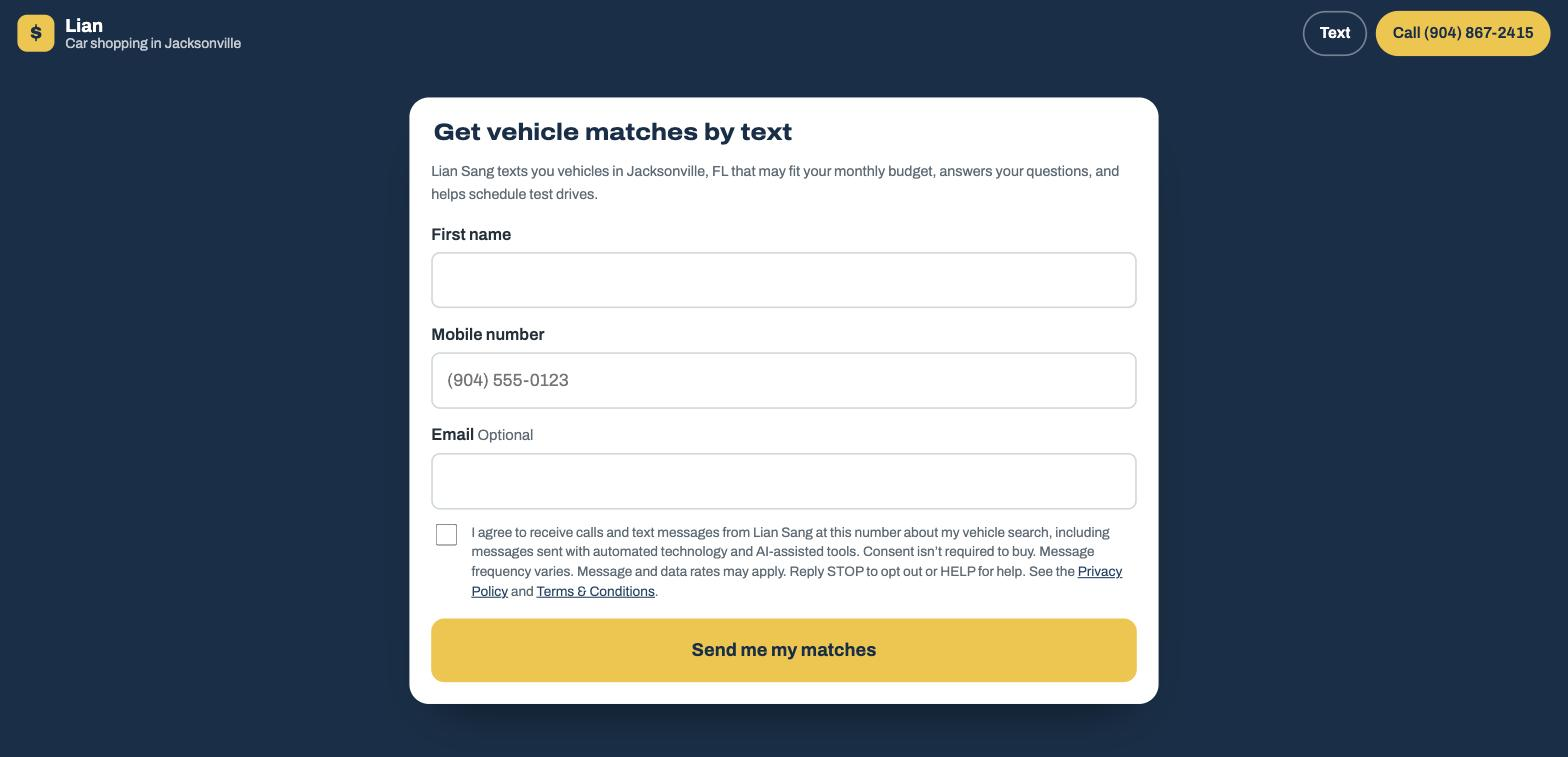
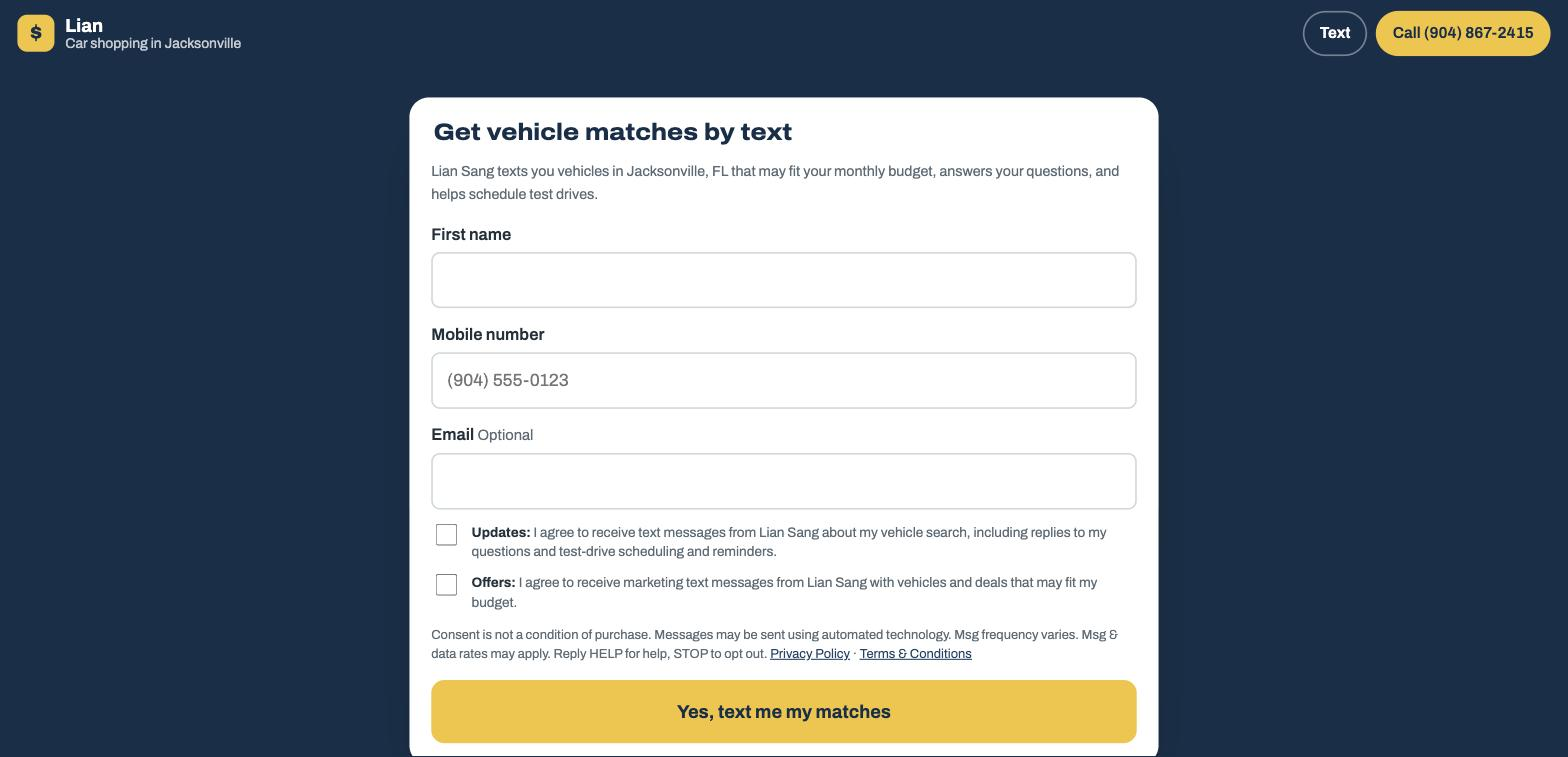
Split SMS consent into separate Updates and Offers checkboxes

Changed region(s): [[0.25, 0.6988, 0.75, 1.0]]

diff --git a/src/LeadForm.jsx b/src/LeadForm.jsx
@@ -1,6 +1,7 @@
 import { useEffect, useMemo, useRef, useState } from 'react'
 import { site } from '../site.config.js'
 import { getAttribution, track } from './tracking.js'
+import { consentRecord } from './consent.js'
 
 const DOWN = ['$0 down', 'Under $1,000', '$1,000–$3,000', '$3,000+']
 const CREDIT = ['Excellent (720+)', 'Good (660–719)', 'Fair (600–659)', 'Rebuilding', 'Not sure']
@@ -9,6 +10,7 @@ const TIMING = ['Today', 'Within a week', 'This month', 'Just looking']
 const TYPES = ['Car', 'SUV', 'Truck', 'Minivan', 'Any']
 
 const fmt = (n) => '$' + n.toLocaleString('en-US')
+const from = site.brandName + (site.dealerName ? ` at ${site.dealerName}` : '')
 
 function Choice({ name, options, value, onChange, columns }) {
   return (
@@ -41,7 +43,7 @@ export default function LeadForm() {
   const [budget, setBudget] = useState(site.budgetDefault)
   const [a, setA] = useState({
     down: '$0 down', trade: 'Not sure', credit: 'Not sure', income: 'Not sure', timing: 'Today', type: 'Any', condition: 'Either',
-    firstName: '', phone: '', email: '', consent: false, company: '',
+    firstName: '', phone: '', email: '', consentUpdates: false, consentOffers: false, company: '',
   })
   const [error, setError] = useState('')
   const [sending, setSending] = useState(false)
@@ -79,12 +81,12 @@ export default function LeadForm() {
     if (!a.firstName.trim()) return setError('Add your first name so I know who I’m texting.')
     if (digits.length !== 10) return setError('Enter a 10-digit mobile number.')
     if (a.email && !/^\S+@\S+\.\S+$/.test(a.email)) return setError('That email doesn’t look complete. Fix it or leave it blank.')
-    if (!a.consent) return setError('Check the box to let me text and call you about your matches.')
+    if (!a.consentUpdates) return setError('Check the first box so I can text you about your vehicle search.')
 
     setSending(true)
     const payload = {
       budget, ...a, phone: '+1' + digits,
-      consentText: document.getElementById('consent-text')?.textContent || '',
+      consentText: consentRecord(),
       elapsedMs: Date.now() - startedAt.current,
       attribution: getAttribution(),
       page: location.href,
@@ -186,17 +188,28 @@ export default function LeadForm() {
             <label htmlFor="co">Company</label>
             <input id="co" tabIndex={-1} autoComplete="off" value={a.company} onChange={(e) => set('company')(e.target.value)} />
           </div>
+          {/* Separate boxes for transactional and marketing texts, per carrier (A2P 10DLC) rules.
+              Keep this wording in sync with sms-opt-in/index.html. */}
           <label className="consent">
-            <input type="checkbox" checked={a.consent} onChange={(e) => set('consent')(e.target.checked)} />
-            <span id="consent-text">
-              I agree to receive calls and text messages from {site.brandName}{site.dealerName ? ` at ${site.dealerName}` : ''} at this number about my vehicle search,
-              including messages sent with automated technology and AI-assisted tools. Consent isn’t required to buy.
-              Message frequency varies. Message and data rates may apply. Reply STOP to opt out or HELP for help.
-              See the <a href="/privacy/" target="_blank" rel="noopener">Privacy Policy</a> and <a href="/terms/" target="_blank" rel="noopener">Terms &amp; Conditions</a>.
+            <input type="checkbox" checked={a.consentUpdates} onChange={(e) => set('consentUpdates')(e.target.checked)} />
+            <span id="consent-updates">
+              <strong>Updates:</strong> I agree to receive text messages from {from} about my vehicle search, including replies to my
+              questions and test-drive scheduling and reminders.
             </span>
           </label>
+          <label className="consent">
+            <input type="checkbox" checked={a.consentOffers} onChange={(e) => set('consentOffers')(e.target.checked)} />
+            <span id="consent-offers">
+              <strong>Offers:</strong> I agree to receive marketing text messages from {from} with vehicles and deals that may fit my budget.
+            </span>
+          </label>
+          <p className="consent-note" id="consent-note">
+            Consent is not a condition of purchase. Messages may be sent using automated technology. Msg frequency varies.
+            Msg &amp; data rates may apply. Reply HELP for help, STOP to opt out.{' '}
+            <a href="/privacy/" target="_blank" rel="noopener">Privacy Policy</a> · <a href="/terms/" target="_blank" rel="noopener">Terms &amp; Conditions</a>
+          </p>
           <button type="submit" className="btn btn--go" disabled={sending}>
-            {sending ? 'Sending…' : 'Send me my matches'}
+            {sending ? 'Sending…' : 'Yes, text me my matches'}
           </button>
         </fieldset>
       )}

diff --git a/sms-opt-in/index.html b/sms-opt-in/index.html
@@ -49,15 +49,24 @@
               <input id="co" name="company" tabindex="-1" autocomplete="off" />
             </div>
             <label class="consent">
-              <input type="checkbox" id="consent" name="consent" />
-              <span id="consent-text">
-                I agree to receive calls and text messages from Lian Sang at this number about my vehicle search,
-                including messages sent with automated technology and AI-assisted tools. Consent isn’t required to buy.
-                Message frequency varies. Message and data rates may apply. Reply STOP to opt out or HELP for help.
-                See the <a href="/privacy/" target="_blank" rel="noopener">Privacy Policy</a> and <a href="/terms/" target="_blank" rel="noopener">Terms &amp; Conditions</a>.
+              <input type="checkbox" name="consentUpdates" />
+              <span id="consent-updates">
+                <strong>Updates:</strong> I agree to receive text messages from Lian Sang about my vehicle search, including replies to my
+                questions and test-drive scheduling and reminders.
               </span>
             </label>
-            <button type="submit" class="btn btn--go">Send me my matches</button>
+            <label class="consent">
+              <input type="checkbox" name="consentOffers" />
+              <span id="consent-offers">
+                <strong>Offers:</strong> I agree to receive marketing text messages from Lian Sang with vehicles and deals that may fit my budget.
+              </span>
+            </label>
+            <p class="consent-note" id="consent-note">
+              Consent is not a condition of purchase. Messages may be sent using automated technology. Msg frequency varies.
+              Msg &amp; data rates may apply. Reply HELP for help, STOP to opt out.
+              <a href="/privacy/" target="_blank" rel="noopener">Privacy Policy</a> · <a href="/terms/" target="_blank" rel="noopener">Terms &amp; Conditions</a>
+            </p>
+            <button type="submit" class="btn btn--go">Yes, text me my matches</button>
             <p class="error" role="alert" id="err" hidden></p>
           </fieldset>
         </form>

diff --git a/src/optin.js b/src/optin.js
@@ -1,6 +1,7 @@
 // Submits the plain-HTML form on /sms-opt-in/ through the same /api/lead as the main form.
 import { site } from '../site.config.js'
 import { initTracking, getAttribution } from './tracking.js'
+import { consentRecord } from './consent.js'
 import './styles.css'
 
 initTracking()
@@ -19,15 +20,16 @@ form.addEventListener('submit', async (e) => {
   if (!f.firstName.value.trim()) return showError('Add your first name so I know who I’m texting.')
   if (digits.length !== 10) return showError('Enter a 10-digit mobile number.')
   if (f.email.value && !/^\S+@\S+\.\S+$/.test(f.email.value)) return showError('That email doesn’t look complete. Fix it or leave it blank.')
-  if (!f.consent.checked) return showError('Check the box to let me text and call you about your matches.')
+  if (!f.consentUpdates.checked) return showError('Check the first box so I can text you about your vehicle search.')
 
   btn.disabled = true
   btn.textContent = 'Sending…'
   const payload = {
     source: 'sms-optin',
     firstName: f.firstName.value, phone: '+1' + digits, email: f.email.value, company: f.company.value,
-    consent: true,
-    consentText: document.getElementById('consent-text').textContent.replace(/\s+/g, ' ').trim(),
+    consentUpdates: true,
+    consentOffers: f.consentOffers.checked,
+    consentText: consentRecord(),
     elapsedMs: Date.now() - startedAt,
     attribution: getAttribution(),
     page: location.href,
@@ -42,7 +44,7 @@ form.addEventListener('submit', async (e) => {
     location.href = `/thanks/?id=${encodeURIComponent(data.id)}`
   } catch {
     btn.disabled = false
-    btn.textContent = 'Send me my matches'
+    btn.textContent = 'Yes, text me my matches'
     showError(`Your info didn’t send. Try again, or text ${site.phoneDisplay}.`)
   }
 })

diff --git a/src/terms.jsx b/src/terms.jsx
@@ -29,13 +29,18 @@ function Terms() {
           <h2 id="sms">SMS Terms</h2>
           <ul>
             <li>
-              <strong>Program:</strong> {site.brandName} vehicle matches. When you submit the form on this site and check the consent box,
-              you agree to receive text messages from {site.brandName} at the mobile number you provide.
+              <strong>Program:</strong> {site.brandName} vehicle matches. The form on this site has two separate, unchecked boxes. You
+              choose which texts you get from {site.brandName} at the mobile number you provide.
             </li>
             <li>
-              <strong>What you’ll receive:</strong> vehicles that may fit your budget, replies to your questions, test drive scheduling and
-              reminders, and follow-ups about your vehicle search. Some messages may be sent with automated or AI-assisted tools.
+              <strong>Updates</strong> (first box): messages about your vehicle search, including replies to your questions and test-drive
+              scheduling and reminders.
             </li>
+            <li>
+              <strong>Offers</strong> (second box, optional): marketing messages with vehicles and deals that may fit your budget. You can
+              get Updates without agreeing to Offers.
+            </li>
+            <li>Some messages may be sent using automated technology or AI-assisted tools.</li>
             <li><strong>Message frequency varies</strong> based on your search and how you reply.</li>
             <li><strong>Message and data rates may apply.</strong> Check your mobile plan for details.</li>
             <li><strong>To opt out,</strong> reply STOP to any message. You’ll get one confirmation text and no further messages unless you opt in again.</li>

diff --git a/api/lead.js b/api/lead.js
@@ -42,8 +42,11 @@ export function normalize(b) {
     firstName: clean(b.firstName, 40),
     phone: clean(b.phone, 16),
     email: clean(b.email, 120),
-    consent: b.consent === true,
-    consentText: clean(b.consentText, 600),
+    // Updates (transactional) is required to text at all; Offers (marketing) is optional and separate
+    consent: b.consentUpdates === true,
+    consentUpdates: b.consentUpdates === true,
+    consentOffers: b.consentOffers === true,
+    consentText: clean(b.consentText, 1200),
   }
 }
 
@@ -102,8 +105,8 @@ export default async function handler(req, res) {
   }
   // One-line summary your phone notification / AI responder can use directly
   lead.summary = l.source === 'sms-optin'
-    ? `SMS OPT-IN ${lead.firstName} ${lead.phone}${lead.email ? ' ' + lead.email : ''} (no budget yet)`
-    : `${lead.tier} (${lead.score}) ${lead.firstName} ${lead.phone} — $${lead.budget}/mo, ${lead.down}, credit ${lead.credit}, income ${lead.income}, ${lead.timing}, ${lead.condition} ${lead.type}, trade: ${lead.trade}${lead.flags.length ? ' | ' + lead.flags.join('; ') : ''}`
+    ? `SMS OPT-IN ${lead.firstName} ${lead.phone}${lead.email ? ' ' + lead.email : ''} (no budget yet)${lead.consentOffers ? '' : ' | NO marketing texts'}`
+    : `${lead.tier} (${lead.score}) ${lead.firstName} ${lead.phone} — $${lead.budget}/mo, ${lead.down}, credit ${lead.credit}, income ${lead.income}, ${lead.timing}, ${lead.condition} ${lead.type}, trade: ${lead.trade}${lead.flags.length ? ' | ' + lead.flags.join('; ') : ''}${lead.consentOffers ? '' : ' | NO marketing texts'}`
 
   const urls = [process.env.LEAD_WEBHOOK_URL, process.env.LEAD_WEBHOOK_URL_2].filter(Boolean)
   if (!urls.length) {

diff --git a/src/privacy.jsx b/src/privacy.jsx
@@ -29,7 +29,7 @@ function Privacy() {
           <p>
             When you use the form I collect what you enter: your first name, mobile number, optional email, monthly budget,
             down payment range, trade-in status, self-rated credit range, income range, timing, and vehicle preferences.
-            If you check the consent box, I also record that you agreed to receive calls and text messages, the exact consent wording
+            If you check a consent box, I also record which text messages you agreed to receive (Updates, Offers, or both), the exact consent wording
             you saw, the date and time, and your IP address.
             I also collect basic technical data: the page you came from, ad click identifiers (such as a Google click ID),
             campaign tags, browser type, and the time of your request. I do not ask for your Social Security number or run credit from this site.

diff --git a/src/styles.css b/src/styles.css
@@ -107,6 +107,9 @@ p { margin: 0 0 1em; }
 .hp { position: absolute; left: -9999px; height: 0; overflow: hidden; }
 .consent { display: flex; gap: 10px; align-items: flex-start; font-size: .78rem; line-height: 1.45; color: var(--muted); margin: 6px 0 16px; }
 .consent input { width: 20px; height: 20px; flex: none; margin-top: 1px; accent-color: var(--ink); }
+.consent + .consent { margin-top: -6px; }
+.consent strong { color: var(--text); }
+.consent-note { font-size: .74rem; line-height: 1.45; color: var(--muted); margin: -4px 0 16px; }
 
 .btn { display: inline-flex; justify-content: center; align-items: center; font: inherit; font-weight: 700; font-size: 1.05rem; padding: 14px 22px; border-radius: 12px; border: 2px solid transparent; cursor: pointer; text-decoration: none; min-height: 52px; }
 .btn--go { width: 100%; background: var(--marker); color: var(--ink); border-color: var(--marker); }

diff --git a/src/consent.js b/src/consent.js
@@ -1,0 +1,7 @@
+// Exact wording the buyer saw, with which boxes were checked, saved with each lead as the consent record.
+// Both forms use the ids consent-updates, consent-offers (the span right after each checkbox) and consent-note.
+export function consentRecord() {
+  const t = (id) => document.getElementById(id)?.textContent.replace(/\s+/g, ' ').trim() || ''
+  const box = (id) => (document.getElementById(id)?.previousElementSibling?.checked ? '[x] ' : '[ ] ') + t(id)
+  return [box('consent-updates'), box('consent-offers'), t('consent-note')].join(' | ')
+}
